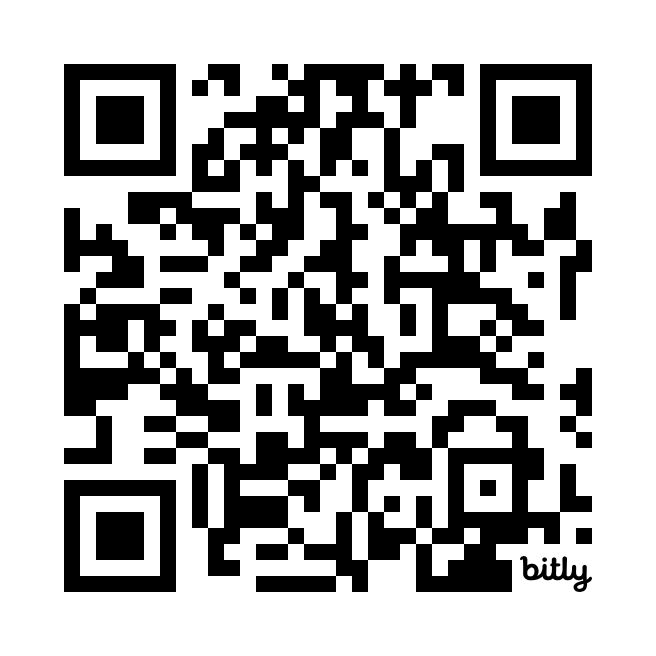
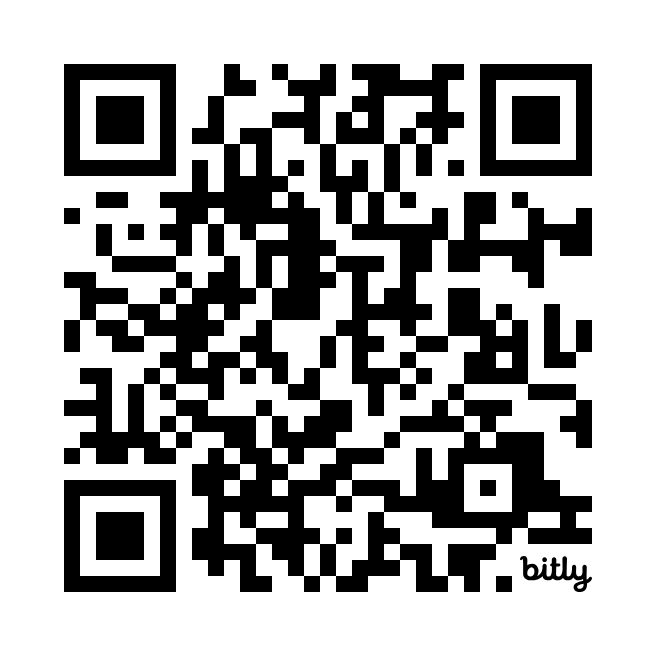
Built site for gh-pages

Changed region(s): [[0.0915, 0.0915, 0.9146, 0.9146]]

diff --git a/index.html b/index.html
@@ -350,7 +350,7 @@ Deborah Apthorp, Kasey McGinness, &amp; Jessica Taubert
 <div class="quarto-figure quarto-figure-center">
 <figure>
 <p><img data-src="images/QRcode.png"></p>
-<figcaption><a href="https/www.bit.ly/ANS-Sleep">bit.ly/ANS-Sleep</a></figcaption>
+<figcaption><a href="https://bit.ly/acns_apthorp">bit.ly/acns_apthorp</a></figcaption>
 </figure>
 </div>
 </div>
@@ -425,12 +425,16 @@ Deborah Apthorp, Kasey McGinness, &amp; Jessica Taubert
 <div id="fig-staircase" class="quarto-float quarto-figure quarto-figure-center">
 <figure class="quarto-float quarto-float-fig">
 <div aria-describedby="fig-staircase-caption-0ceaefa1-69ba-4598-a22c-09a6ac19f8ca">
-<img data-src="images/staircase.jpeg">
+<img data-src="images/staircase2.png">
 </div>
 <figcaption class="quarto-float-caption-bottom quarto-float-caption quarto-float-fig" id="fig-staircase-caption-0ceaefa1-69ba-4598-a22c-09a6ac19f8ca">
 Figure&nbsp;1: An illustration of the staircase method
 </figcaption>
 </figure>
+</div>
+<div class="footer">
+<p>Taubert, J., Apthorp, D., Aagten-Murphy, D., &amp; Alais, D. (2011).</p>
+<p>The role of holistic processing in face perception: Evidence from the face inversion effect. <em>Vision Research</em>, 51, 1273–1278. <a href="https://doi.org/10.1016/j.visres.2011.04.002">10.1016/j.visres.2011.04.002</a></p>
 </div>
 </div>
 <aside class="notes">
@@ -477,12 +481,20 @@ Figure&nbsp;2: A depiction of the experimental setup
 </section>
 <section id="participants" class="slide level2">
 <h2>Participants</h2>
+<div class="columns">
+<div class="column fragment fade-in" style="width:50%;">
+<p><img data-src="images/UNE_Face_Perception_Flyer_1.png"></p>
+</div><div class="column fragment fade-in" style="width:50%;">
 <ul>
 <li class="fragment">28 female participants</li>
 <li class="fragment">Age: 18 - 65 (<span class="math inline">\(M = 43.1\)</span>, <span class="math inline">\(SD = 12.7\)</span>)</li>
 <li class="fragment">Originally 30 but 2 excluded due to poor task performance</li>
 <li class="fragment">Study was preregistered (including performance cutoffs)</li>
+<li class="fragment">Why female?</li>
+<li class="fragment">Avoid category decisions in task performance</li>
+<li class="fragment">Balancing control stimuli</li>
 </ul>
+</div></div>
 <aside class="notes">
 
 <style type="text/css">
@@ -507,7 +519,7 @@ Figure&nbsp;2: A depiction of the experimental setup
 <li class="fragment">All faces transformed to B&amp;W and contrast normalised across images</li>
 </ul>
 <aside class="notes">
-
+<p>Maybe include some images of faces here?</p>
 <style type="text/css">
         span.MJX_Assistive_MathML {
           position:absolute!important;
